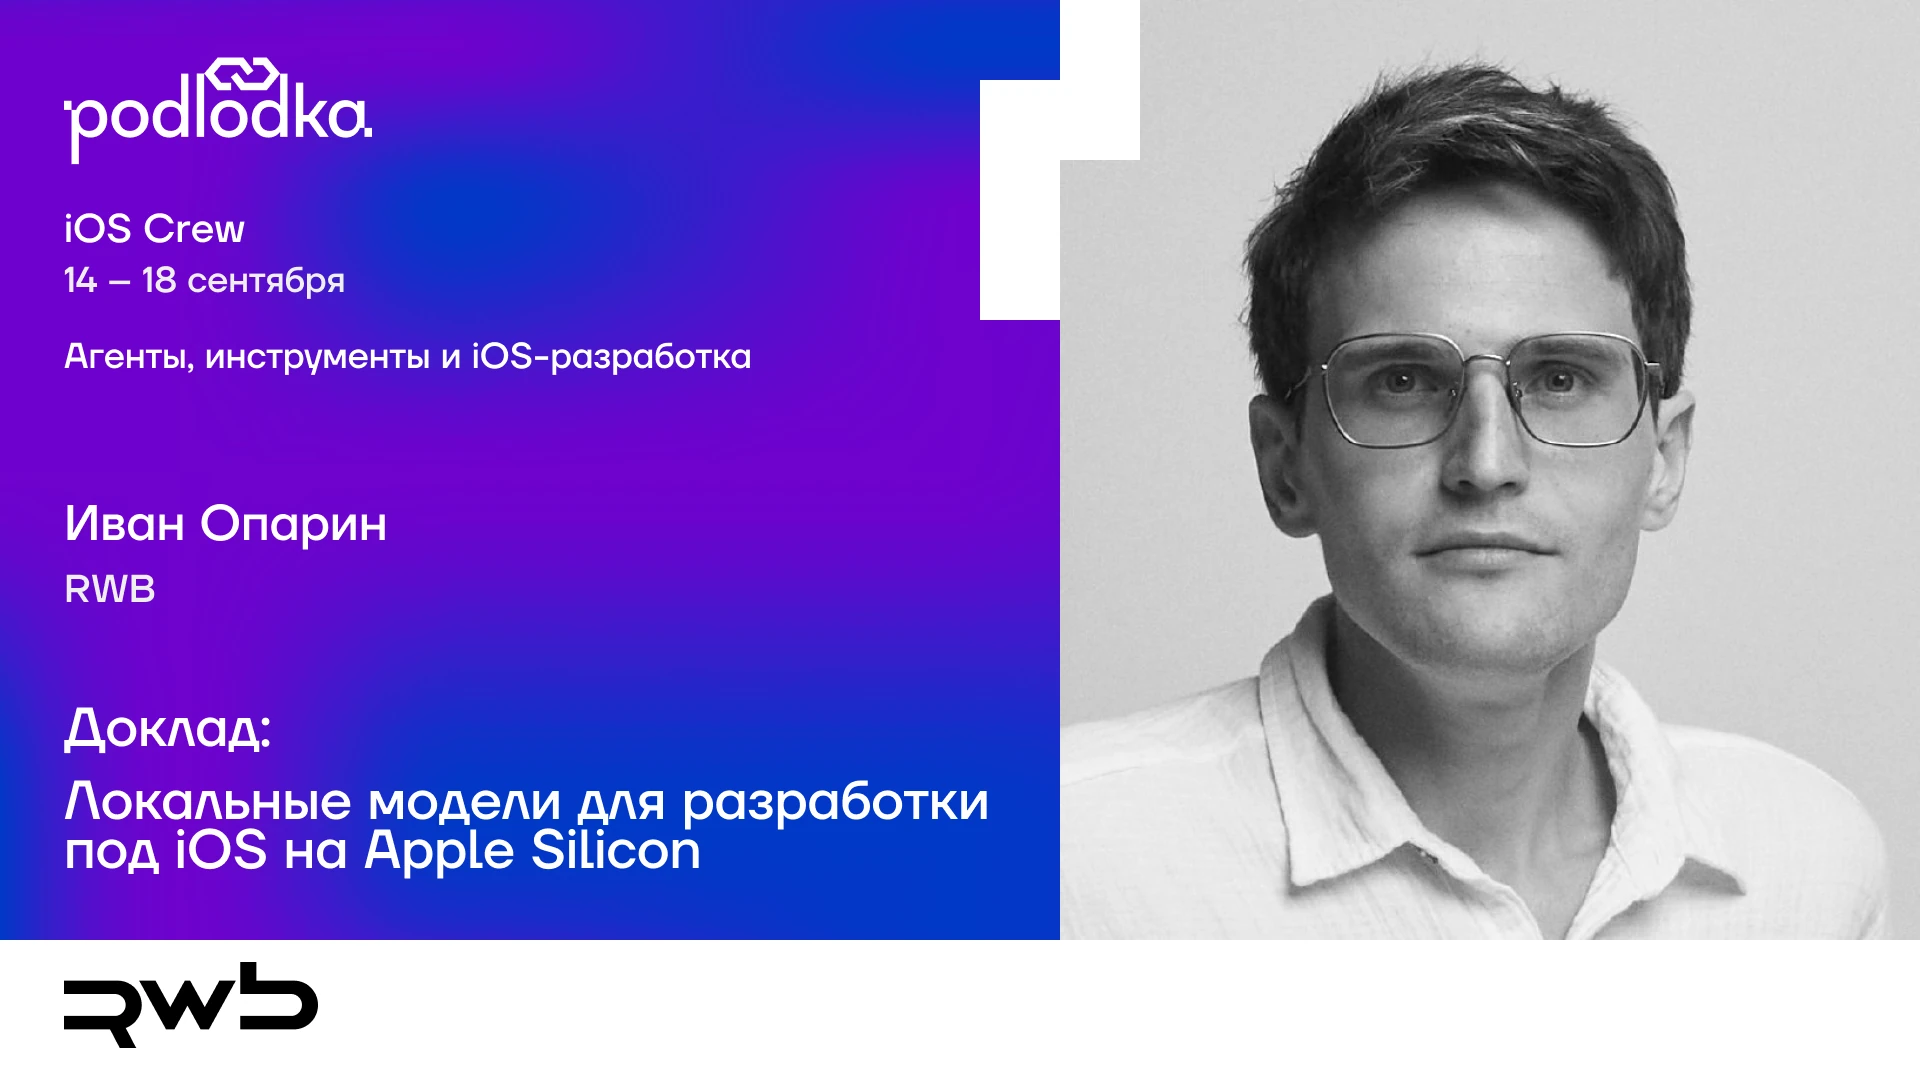
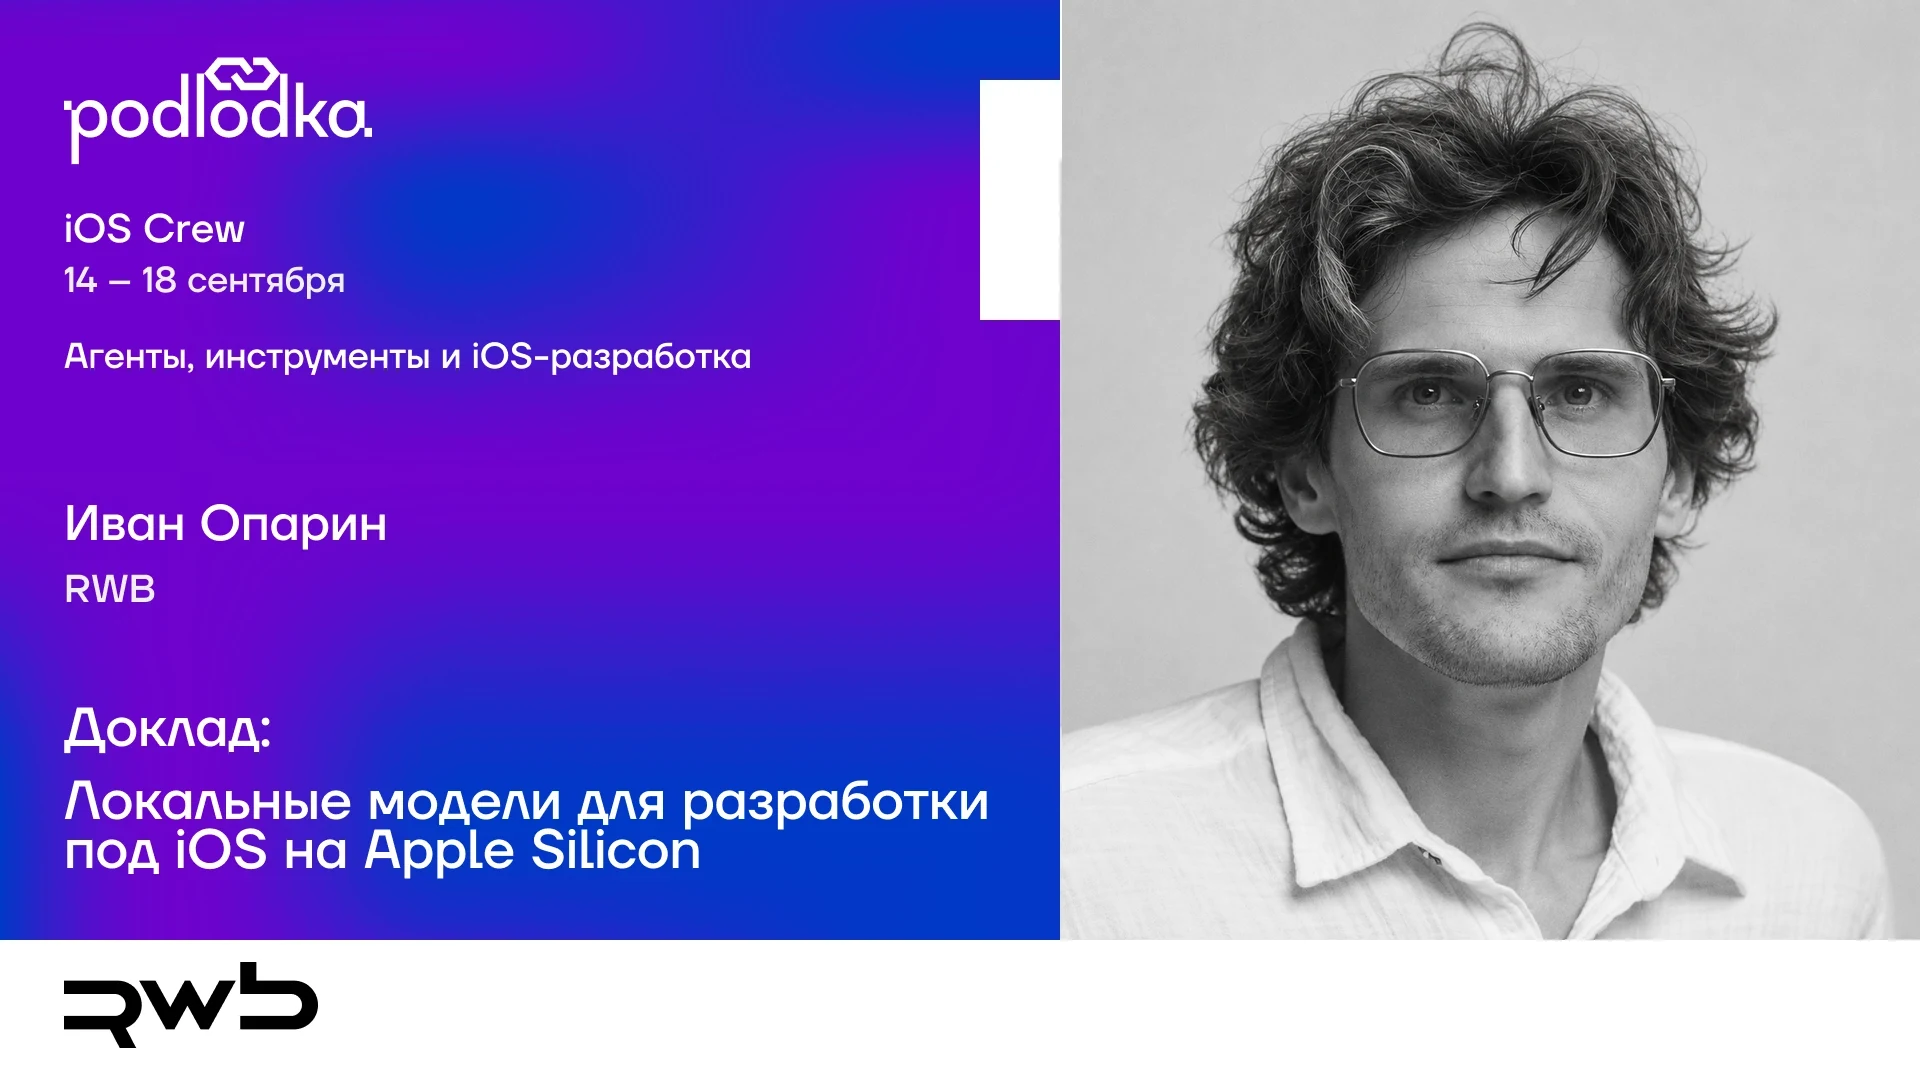
feat(cover): new portrait on the conference card and a Relux Works subline
The card image carries the new black-and-white portrait in the right panel.
The cover layout gains a subline prop drawn over the card under the company
name; positioned in layout coordinates so it lands under «RWB».

Claude-Session: https://claude.ai/code/session_01X27WT9Bo2uwuj3c9AZVWdw

diff --git a/theme/layouts/cover.vue b/theme/layouts/cover.vue
@@ -1,11 +1,12 @@
 <script setup lang="ts">
-// Титул. image — карточка конференции на весь слайд (файл из public/); без image — текстовый титул темы.
+// Титул. image — карточка конференции на весь слайд (файл из public/); subline — строка, дорисованная поверх карточки под именем. Без image — текстовый титул темы.
 import { withBase } from '../utils/base'
-withDefaults(defineProps<{ event?: string, who?: string, role?: string | string[], contacts?: string, logo?: boolean, image?: string, motif?: string }>(), { logo: true })
+withDefaults(defineProps<{ event?: string, who?: string, role?: string | string[], contacts?: string, logo?: boolean, image?: string, subline?: string, motif?: string }>(), { logo: true })
 </script>
 <template>
   <div class="slidev-layout rwb-cover" :class="{ 'has-image': !!image }">
     <img v-if="image" class="cover-img" :src="withBase(image)" alt="" />
+    <div v-if="image && subline" class="subline">{{ subline }}</div>
     <Tag v-if="event && !image" :text="event" class="absolute left-9 top-8" />
     <RwbLogo v-if="logo !== false && !image" class="absolute right-9 top-8" />
     <slot />

diff --git a/theme/styles/layouts.css b/theme/styles/layouts.css
@@ -3,7 +3,8 @@
 /* Титул: карточка конференции на весь слайд (image) или текстовый вариант */
 .slidev-layout.rwb-cover { padding-bottom: 30px; }
 .slidev-layout.rwb-cover .cover-img { position: absolute; inset: 0; width: 100%; height: 100%; object-fit: cover; }
-.slidev-layout.rwb-cover.has-image > :not(.cover-img) { position: absolute; width: 1px; height: 1px; overflow: hidden; clip: rect(0 0 0 0); white-space: nowrap; }
+.slidev-layout.rwb-cover.has-image > :not(.cover-img):not(.subline) { position: absolute; width: 1px; height: 1px; overflow: hidden; clip: rect(0 0 0 0); white-space: nowrap; }
+.slidev-layout.rwb-cover.has-image .subline { position: absolute; left: 32px; top: 320px; max-width: 520px; font-size: 12.5px; line-height: 1.3; color: #fff; }
 .slidev-layout.rwb-cover h1 { font-size: 44px; margin-top: 92px; max-width: 24ch; padding-right: 0; }
 .slidev-layout.rwb-cover .who { margin-top: 28px; color: var(--rwb-sec); font-size: 19px; line-height: 1.45; }
 .slidev-layout.rwb-cover .who .name { color: var(--rwb-txt); }

diff --git a/slides.md b/slides.md
@@ -12,6 +12,7 @@ role:
   - 'Relux Works — соавтор open-source экосистемы агентской разработки'
 contacts: t.me/ivanopcode · github.com/ivanopcode
 image: /media/cover-podlodka.webp
+subline: 'соавтор open source разработок агентской инфраструктуры + iOS (Relux Works)'
 ---
 
 # Интегрируем локальные LLM в рабочие процессы разработки
